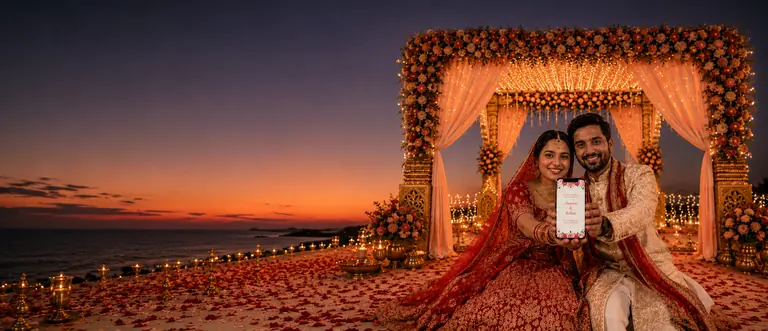
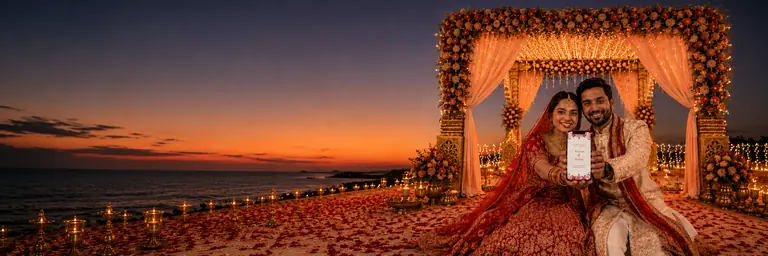
New photograph behind the invitation reviews
Replaced the source and regenerated the three variants. Two things changed with it, and neither is
cosmetic.

THE SRCSET DESCRIPTOR MOVED FROM 1912w TO 1920w. The old source was 1912px wide, so
optimize-images.mjs — which resizes withoutEnlargement — produced a "-1920" file that was really
1912px. The new source is 2172px, so there is room for a true 1920. The descriptor tracks the file,
not the filename, because those two can disagree.

THE CROP ANCHOR MOVED FROM object-center TO object-top. The old photograph was 2.32:1 with the
couple centred, so anchoring to the top would have cropped their feet. The new one is 3:1 — the
same aspect as bg-image — with the couple and the phone they are holding in the upper-middle band
and petals and diyas filling the bottom third. In a band that renders shorter than 3:1 something
gets cropped, and it should be the foreground. Chosen by looking at the image rather than by
keeping the previous value.

Verified: the invitation page serves invitation-review at 1920w with object-top, the home page still
serves bg-image, no 1912w remains anywhere, all three variants return 200, and three routes 200 with
no errors in the server log.

diff --git a/apps/web/app/(site)/invitations/[slug]/page.tsx b/apps/web/app/(site)/invitations/[slug]/page.tsx
@@ -197,28 +197,30 @@ export default async function InvitationTemplatePage({
         heading="One link, and the whole family opened it."
         description="What couples told us after sending theirs out. Invitation reviews are not booking-verified yet — the badge on our vendor reviews means something these do not."
         /*
-         * This page's own photograph. The home page keeps bg-image — the component's default —
-         * so changing one does not change the other.
+         * This page's own photograph. The home page keeps bg-image — the component's default — so
+         * changing one does not change the other.
          *
-         * 1912w, not 1920w: optimize-images.mjs resizes withoutEnlargement, so the "-1920"
-         * variant off this 1912px source is 1912px wide. Claiming 1920 would be a srcSet that
-         * lies about a file, in the small way that makes a browser pick wrong on a boundary.
+         * 1920w, and it says 1920 because the file IS 1920: the source is 2172px wide, so
+         * optimize-images.mjs has room to produce a true 1920 variant. The previous photograph was
+         * 1912px and this said 1912w for the same reason — the descriptor tracks the file, not the
+         * filename, because withoutEnlargement means the two can disagree.
          *
-         * object-center rather than the default object-top: at 1912x823 this frame is far less
-         * letterboxed than bg-image's 3:1, and the couple sit centre-right — anchoring to the
-         * top would crop their feet off on a short viewport.
+         * object-top, not object-center. At 2172x724 this is a 3:1 frame in a band that renders
+         * shorter than that, so something gets cropped: the couple and the phone they are holding
+         * sit in the upper-middle band and the bottom third is petals and diyas. Anchoring to the
+         * top takes the crop off the foreground and keeps the subject. (The previous photograph was
+         * 2.32:1 with the couple centred, which is why it wanted object-center — the anchor belongs
+         * to the image, not to the section.)
          */
         background={{
           src: '/invitation-review-1920.webp',
           variants: [
             ['/invitation-review-768.webp', 768],
             ['/invitation-review-1280.webp', 1280],
-            ['/invitation-review-1920.webp', 1912],
+            ['/invitation-review-1920.webp', 1920],
           ],
-          position: 'object-center',
+          position: 'object-top',
         }}
-        // This photograph's left third is open sky and sea, so the copy can move in closer than
-        // the shared default allows. The home page keeps the default — see the prop's note.
         wide
       />
 
